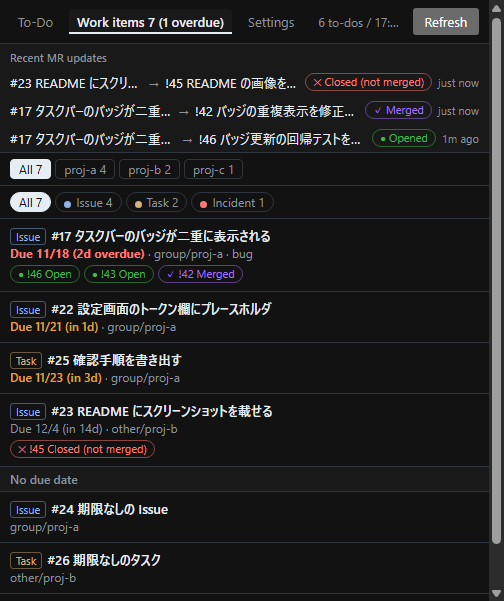
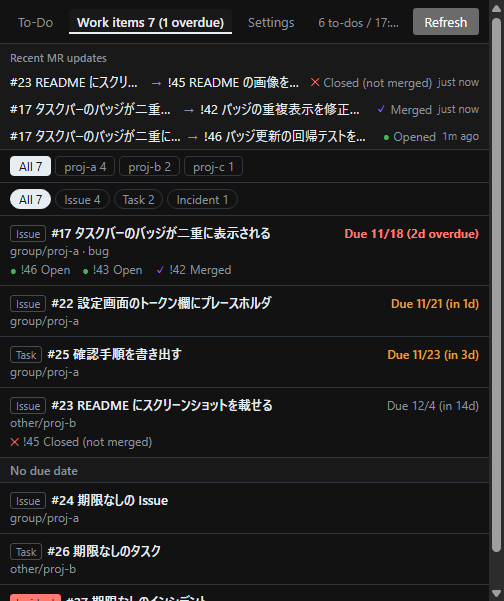
[Change] 作業アイテムの種別を無彩色にし、期限を行の右端へ集める

diff --git a/scripts/gui-test.js b/scripts/gui-test.js
@@ -244,11 +244,12 @@ let m = null;
   const typeTags = await evl(`[...document.querySelectorAll(${JSON.stringify(itemTags)})].map(e => e.textContent).join(',')`);
   check('行頭に種別タグ（issue_type なしは Issue）',
     typeTags === 'Issue,Issue,タスク,Issue,Issue,タスク,インシデント', typeTags);
+  // #18: 種別は分類なので無彩色。インシデントだけが「危険」の意味で強調される
   const typeTones = await evl(`[...document.querySelectorAll(${JSON.stringify(itemTags)})].map(e => [...e.classList].find(c => c.startsWith('t-'))).join(',')`);
-  check('作業アイテムの種別も色分け', typeTones === 't-mention,t-mention,t-assign,t-mention,t-mention,t-assign,t-danger', typeTones);
-  const typeColors = await evl(`[...new Set([...document.querySelectorAll(${JSON.stringify(itemTags)})].map(e => getComputedStyle(e).color))].join(' / ')`);
-  check('作業アイテムの描画色が 3 色分かれている', typeColors.split(' / ').length === 3, typeColors);
-  check('種別チップに色の点が付く', (await count('#assignedTypes .dot')) === 3, String(await count('#assignedTypes .dot')));
+  check('作業アイテムの種別はインシデントだけ強調', typeTones === 't-muted,t-muted,t-muted,t-muted,t-muted,t-muted,t-danger', typeTones);
+  check('種別チップに色の点を付けない', (await count('#assignedTypes .dot')) === 0, String(await count('#assignedTypes .dot')));
+  const trailDue = await evl(`[...document.querySelectorAll(${JSON.stringify(ROWS)})].map(li => li.querySelector(':scope > .trail > .due') ? 'R' : li.querySelector('.due') ? 'L' : '-').join('')`);
+  check('期限は行の右端（末尾の枠）に出る', trailDue === 'RRRR---', trailDue);
   const dueCls = await evl(`[...document.querySelectorAll(${JSON.stringify(ROWS)})].map(li => li.querySelector('.due')?.className ?? '-').join('|')`);
   check('作業アイテムの期限の色分け（期限なしは期限を出さない）', dueCls === 'due over|due soon|due soon|due|-|-|-', dueCls);
   const dueTexts = await evl(`[...document.querySelectorAll('#assignedItems .due')].map(e => e.textContent).join(' | ')`);
@@ -272,16 +273,22 @@ let m = null;
       const over = s('#assignedItems .due.over'), plain = s('#assignedItems .due:not(.soon):not(.over)');
       const chip = s('#assignedTypes .chip.active'), tag = s(${JSON.stringify(itemTags)});
       const mr = document.querySelector('#assignedItems .mr-status');
+      const tags = [...document.querySelectorAll(${JSON.stringify(itemTags)})].filter(e => !e.classList.contains('t-danger'));
       return { overWeight: over.fontWeight, overColor: over.color, plainColor: plain.color, chipBg: chip.backgroundColor,
-        tagBg: tag.backgroundColor, tagRadius: tag.borderTopLeftRadius,
-        mrRadius: mr && getComputedStyle(mr).borderTopLeftRadius, mrMark: mr && getComputedStyle(mr, '::before').content };
+        tagBg: tag.backgroundColor, tagColors: [...new Set(tags.map(e => getComputedStyle(e).color))],
+        mrText: mr && getComputedStyle(mr).color, mrMarkColor: mr && getComputedStyle(mr, '::before').color,
+        mrBorder: mr && getComputedStyle(mr).borderTopWidth, mrMark: mr && getComputedStyle(mr, '::before').content };
     })()`);
-    const neutral = c => { const [r, g, b] = c.match(/\d+/g).map(Number); return Math.max(r, g, b) - Math.min(r, g, b) < 16; };
+    // 無彩色の判定。補足文字のグレー（#6e7781 など）はわずかに青みがあり RGB の幅が 19 前後になるので、
+    // 有彩色（MR の緑・紫・赤は幅 100 以上）と確実に分けられる 32 未満を無彩色とみなす
+    const neutral = c => { const [r, g, b] = c.match(/\d+/g).map(Number); return Math.max(r, g, b) - Math.min(r, g, b) < 32; };
     check(`[${scheme}] 期限超過は太字で通常の期限と色が違う`, Number(look.overWeight) >= 700 && look.overColor !== look.plainColor, JSON.stringify(look));
     check(`[${scheme}] 絞り込みの選択中は無彩色（赤を使わない）`, neutral(look.chipBg), look.chipBg);
-    check(`[${scheme}] 種別ラベルは塗らない`, /rgba\(0, 0, 0, 0\)|transparent/.test(look.tagBg), look.tagBg);
-    check(`[${scheme}] MR 状態は種別ラベルと違う形で、記号付き`,
-      look.mrRadius !== look.tagRadius && /[●○✓✕?]/.test(look.mrMark ?? ''), `${look.mrRadius} / ${look.tagRadius} / ${look.mrMark}`);
+    check(`[${scheme}] 種別ラベルは塗らず、インシデント以外は無彩色の1色`,
+      /rgba\(0, 0, 0, 0\)|transparent/.test(look.tagBg) && look.tagColors.length === 1 && neutral(look.tagColors[0]), JSON.stringify(look.tagColors));
+    check(`[${scheme}] MR 状態は枠なし・文字は控えめ・色は記号だけ`,
+      look.mrBorder === '0px' && neutral(look.mrText) && !neutral(look.mrMarkColor) && /[●○✓✕?]/.test(look.mrMark ?? ''),
+      `${look.mrBorder} / ${look.mrText} / ${look.mrMarkColor} / ${look.mrMark}`);
   }
   await cdp.send('Emulation.setEmulatedMedia', { features: [] });
 

diff --git a/src/index.html b/src/index.html
@@ -6,10 +6,12 @@
 <title>Notice Me, Senpai!</title>
 <style>
   /* 配色のルール（#18）
-     - 強い色は「対応が必要なもの」だけ: 期限超過 --danger、期限間近 --soon、CI 失敗などの danger 系ラベル
-     - 種別ラベル（To-Do の種類・作業アイテムの種別）は枠線と文字色だけの控えめな表示
-     - 絞り込みの選択中は無彩色の反転表示。赤は「危険」の意味にだけ使う
-     - MR の状態は角丸の別形状＋記号で示し、色だけに頼らない */
+     - 強調の色は少ないほど効く。強い色は「対応が必要なもの」だけ: 期限超過・期限間近・CI 失敗・インシデント
+     - 作業アイテムの種別は「分類」で意味を持たないので無彩色。色は意味のあるものに取っておく
+     - MR の状態は GitHub / GitLab と同じ色の意味（オープン緑・マージ紫・クローズ赤）を記号だけに付け、文字は控えめに
+     - 色だけに頼らない（WCAG 1.4.1）: MR は記号、期限は文言でも分かる
+     - 行は「本文（タイトル・補足）」と「末尾（期限）」に分け、急ぎの情報は右端にそろえる
+     - 絞り込みの選択中は無彩色の反転表示。赤は「危険」の意味にだけ使う */
   :root {
     color-scheme: light dark;
     --text: #1f2328; --muted: #6e7781; --line: #d0d7de; --row-hover: #f3f4f6; --band: #f6f8fa;
@@ -64,10 +66,10 @@
   @media (prefers-color-scheme: dark) { .tag.t-danger { color: #0d1117; } }
   .dot { display: inline-block; width: 7px; height: 7px; border-radius: 50%; vertical-align: middle;
          margin-right: 5px; background: var(--tone, var(--muted)); }
-  /* MR の状態: 角丸の形と先頭の記号で、種別ラベルと見分ける */
-  .mr-status { display: inline-flex; align-items: center; gap: 3px; padding: 0 7px; border-radius: 9px; font-size: 11px; line-height: 16px;
-               color: var(--status); border: 1px solid color-mix(in srgb, var(--status) 50%, transparent); white-space: nowrap; }
-  .mr-status::before { font-size: 10px; line-height: 1; }
+  /* MR の状態: 枠も塗りもなし。色は先頭の記号だけに付け、文字は補足と同じ控えめな色 */
+  .mr-status { display: inline-flex; align-items: center; gap: 4px; font-size: 12px; line-height: 16px;
+               color: var(--muted); white-space: nowrap; }
+  .mr-status::before { color: var(--status); font-size: 11px; line-height: 1; }
   .s-open::before { content: '●'; } .s-draft::before { content: '○'; } .s-merged::before { content: '✓'; }
   .s-closed::before { content: '✕'; } .s-unknown::before { content: '?'; }
   button { font: inherit; padding: 3px 10px; cursor: pointer; }
@@ -81,7 +83,9 @@
   .assigned-item-link { display: block; }
   .assigned-item-link:focus-visible, .related-mr-link:focus-visible,
   .recent-mr-links a:focus-visible { outline: 2px solid currentColor; outline-offset: 2px; }
-  .related-mr-badges { display: flex; flex-wrap: wrap; gap: 4px; margin-top: 4px; }
+  .related-mr-badges { display: flex; flex-wrap: wrap; gap: 2px 12px; margin-top: 3px; }
+  /* 行の末尾の枠（期限）。本文が省略されても、期限は右端で必ず読める */
+  li > .trail { flex-shrink: 0; text-align: right; font-size: 12px; white-space: nowrap; padding-top: 1px; }
   #recentMrUpdates { background: var(--band); border-bottom: 1px solid var(--line); }
   #recentMrUpdatesTitle { margin: 0; padding: 6px 10px 3px; font-size: 11px; font-weight: 600; color: var(--muted); }
   #recentMrUpdatesList > li { border-bottom: none; }

diff --git a/src/renderer.js b/src/renderer.js
@@ -184,14 +184,16 @@ function assignedRow(i, relatedMrsByIssue) {
   const title = el('div', 'title');
   title.append(el('span', `tag t-${workItemTone(workItemType(i))}`, workItemTypeLabel(lang, workItemType(i))), `#${i.iid} ${i.title}`);
   const meta = el('div', 'meta');
-  if (i.due_date) {
-    const due = dueInfo(i.due_date, { lang });
-    meta.append(el('span', due.cls, due.text), ' · ');
-  }
   meta.append(`${issueRepo(i)}${i.labels?.length ? ` · ${i.labels.join(', ')}` : ''}`);
   issueLink.append(title, meta);
   main.append(issueLink);
-  li.append(main);
+  // 期限は行の右端（末尾の枠）にまとめ、縦に流し見したとき急ぎの行を拾えるようにする
+  const trail = el('div', 'trail');
+  if (i.due_date) {
+    const due = dueInfo(i.due_date, { lang });
+    trail.append(el('span', due.cls, due.text));
+  }
+  li.append(main, trail);
   li.onclick = () => window.api.open(i.web_url);
   if (key && workItemType(i) === 'issue') {
     li.dataset.issueKey = key;
@@ -212,7 +214,7 @@ function renderAssigned(items, limited, total, error, relatedMrsByIssue = {}) {
   const inRepo = items.filter(i => filter.assignedRepo === 'all' || issueRepo(i) === filter.assignedRepo);
   // 種別が 1 つ以下なら選ぶ意味がないので行ごと隠す（空の Map を渡すと選択も 'all' に戻る）
   const types = countBy(inRepo, workItemType);
-  renderChips($('#assignedTypes'), 'assignedType', types.size >= 2 ? types : new Map(), v => workItemTypeLabel(lang, v), () => '', v => workItemTone(v));
+  renderChips($('#assignedTypes'), 'assignedType', types.size >= 2 ? types : new Map(), v => workItemTypeLabel(lang, v));
   const shown = inRepo.filter(i => filter.assignedType === 'all' || workItemType(i) === filter.assignedType);
   $('#assignedTab').textContent = assignedTabLabel(items, { lang, total });
   $('#assignedLimit').classList.toggle('hidden', !limited);

diff --git a/src/lib.js b/src/lib.js
@@ -131,8 +131,9 @@ const ACTION_TONES = {
 // 未知の action_name は無色。色を付け忘れた項目もここ落ちするので、テストで網羅を確認する
 const actionTone = name => ACTION_TONES[name] ?? 'muted';
 
-// 作業アイテムの種別ごとの色
-const WORK_ITEM_TONES = { issue: 'mention', task: 'assign', incident: 'danger', test_case: 'ok' };
+// 作業アイテムの種別ごとの色。種別は「分類」で意味を持たないので無彩色にそろえる。
+// インシデントだけは対応の急ぎを表すので強調する（期限超過と同じ「危険」の意味）
+const WORK_ITEM_TONES = { issue: 'muted', task: 'muted', incident: 'danger', test_case: 'muted' };
 const workItemTone = type => WORK_ITEM_TONES[type] ?? 'muted';
 
 // ---------- MR の状態 ----------
